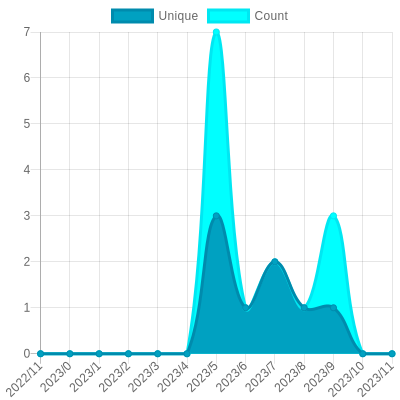
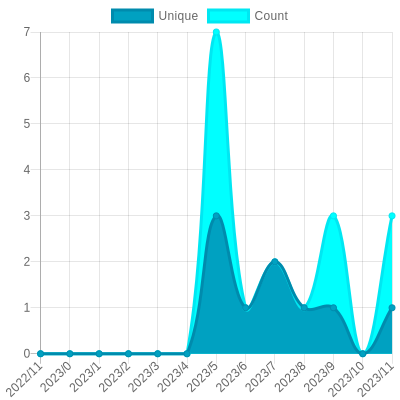
Update views

Changed region(s): [[0.87, 0.51, 0.99, 0.9], [0.87, 0.69, 0.9, 0.78], [0.84, 0.63, 0.87, 0.66]]

diff --git a/readme/499793407/year.md b/readme/499793407/year.md
@@ -23,10 +23,10 @@
 			<code>2022/12/1</code>
 		</td>
 		<td>
-			<code>0</code>
+			<code>1</code>
 		</td>
 		<td>
-			<code>0</code>
+			<code>3</code>
 		</td>
 	</tr>
 	<tr>
@@ -164,7 +164,7 @@
 </table>
 
 </details>
-<small><i>Last updated on 2022/12/6 6:23 AM UTC</i></small>
+<small><i>Last updated on 2022/12/6 12:36 PM UTC</i></small>
 
 ## ✂Copy and 📋 Paste
 ### SVG Badge

diff --git a/README.md b/README.md
@@ -69,7 +69,7 @@ The project created and maintained by [gayanvoice](https://github.com/gayanvoice
 	</tr>
 </table>
 
-<small><i>Last updated on 2022/12/6 6:23 AM UTC</i></small>
+<small><i>Last updated on 2022/12/6 12:36 PM UTC</i></small>
 
 ## ✂Copy and 📋 Paste
 ### Total Views Badge

diff --git a/readme/411344385/year.md b/readme/411344385/year.md
@@ -164,7 +164,7 @@
 </table>
 
 </details>
-<small><i>Last updated on 2022/12/6 6:23 AM UTC</i></small>
+<small><i>Last updated on 2022/12/6 12:36 PM UTC</i></small>
 
 ## ✂Copy and 📋 Paste
 ### SVG Badge

diff --git a/readme/499800654/year.md b/readme/499800654/year.md
@@ -164,7 +164,7 @@
 </table>
 
 </details>
-<small><i>Last updated on 2022/12/6 6:23 AM UTC</i></small>
+<small><i>Last updated on 2022/12/6 12:36 PM UTC</i></small>
 
 ## ✂Copy and 📋 Paste
 ### SVG Badge
